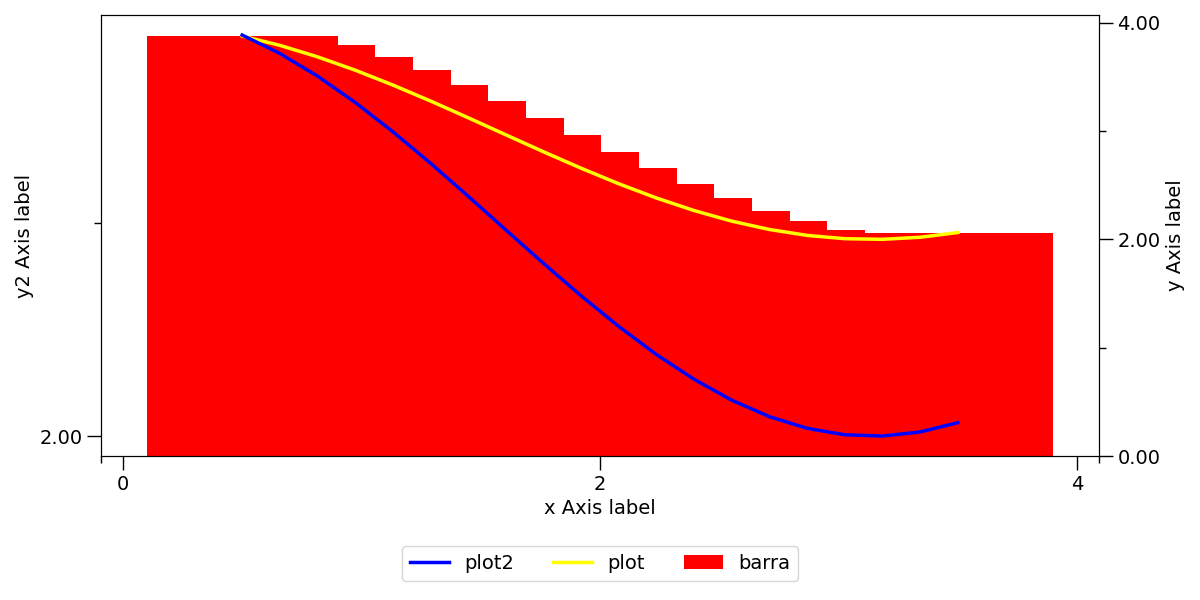
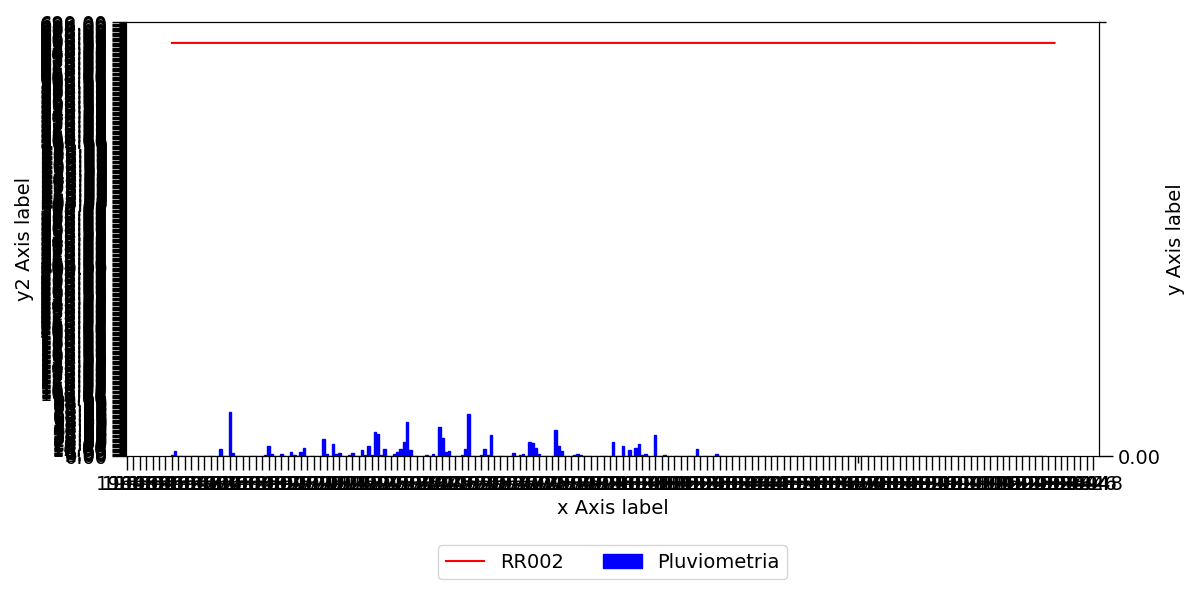
Refact kwargs plot e bar

diff --git a/modules/classes.py b/modules/classes.py
@@ -1,4 +1,3 @@
-
 import matplotlib.pyplot as plt
 import numpy as np
 from matplotlib.dates import DateFormatter,DayLocator,MonthLocator,YearLocator
@@ -6,44 +5,112 @@ from matplotlib.figure import Figure
 from matplotlib.font_manager import FontProperties
 from matplotlib.ticker import AutoMinorLocator, MultipleLocator
 from matplotlib.pyplot import rcParams
+if __name__=="__main__":
+    from functions import pullValues
+else:
+    from .functions import pullValues
 
 plt.rcParams.update({"legend.fontsize":14})
+X = np.linspace(0.5, 3.5, 20)
+Y = 3+np.cos(X)
 
 class Serie():
-    def __init__(self,X=None,Y=None,type="plot",label="",color=None,toSecundary=False,showLegend=True,barWidth=0.8,setup=dict()) -> None:
-        self.setup = dict(
-            par1 = "Exemplo de parâmetro padrão"
-        )
-        self.setup.update(setup)
-        
-        if X==None or Y==None:
-            self.X = np.linspace(0.5, 3.5, 20)
-            self.Y = 3+np.cos(self.X)
-        else:
-            self.X = X
-            self.Y = Y
+    
+    def __init__(self,X=None,Y=None,type="plot",label=None,color=None,toSecundary=False,showLegend=True,setup=dict()) -> None:
+        self.X = X
+        self.Y = Y
         self.type = type
         self.color = color
         self.label = label # Atributos para recuperação da informação passada no construtor
         if showLegend:
             self.label_legend = label
         else:
-            self.label_legend = ""
+            self.label_legend = None
         self.toSecundary = toSecundary
         self.showLegend = showLegend
-        if self.type=="bar":
-            if barWidth==0:
-                self.width = (max(self.X)-min(self.X))/(len(self.X)-1)
-            else:
-                self.width = barWidth
+        if self.type == "plot":
+            self.setup = dict(
+                label=self.label_legend,   # Nome na legenda
+                color=self.color,          # Cor das linhas e marcadores
+                linestyle='-',             # Estilo da linha ('-', '--', '-.', ':', 'None', etc.)
+                linewidth=1.5,             # Espessura da linha
+                marker=None,               # Estilo do marcador ('o', 's', '^', '*', etc.)
+                markersize=6.0,            # Tamanho do marcador
+                markerfacecolor=None,      # Cor de preenchimento do marcador
+                markeredgecolor=None,      # Cor da borda do marcador
+                markeredgewidth=1.0,       # Largura da borda do marcador
+                alpha=None,                # Transparência (0.0 a 1.0)
+                zorder=2,                  # Ordem na sobreposição de elementos
+                drawstyle='default',       # Estilo de conexão dos pontos ('default', 'steps-pre', etc.)
+                )
+        elif self.type == "bar":
+            self.setup = dict(
+                width=0.8,                 # Largura das barras
+                bottom=0,                  # Base das barras
+                align='center',            # Alinhamento das barras ('center' ou 'edge')
+                color=self.color,          # Cor das barras
+                edgecolor=self.color,      # Cor da borda das barras
+                linewidth=None,            # Espessura da borda
+                tick_label=None,           # Etiquetas do eixo x
+                hatch=None,                # Padrão de preenchimento (e.g., '/', '\\', 'x', etc.)
+                label=self.label_legend,   # Nome na legenda
+                alpha=None,                # Transparência (0.0 a 1.0)
+                zorder=2,                  # Ordem na sobreposição de elementos
+                log=False,                 # Escala logarítmica no eixo y
+                error_kw=None,             # Parâmetros de erro adicionais para as barras de erro
+                capsize=None,              # Tamanho das extremidades das barras de erro
+            )
+        self.setup.update(setup)
         pass
+
     def render(self,axes:plt.Axes):
         """Ainda não implementado"""
+        self.axes = axes
         if self.type == "plot":
-            self.art = axes.plot()
+            kwargs = pullValues(
+                self.setup,
+                [
+                "color",
+                "label",
+                "linewidth",
+                "alpha",
+                "zorder",
+                "log",
+                "xerr",
+                "yerr",
+                # Exclusive Plot's Params
+                "markersize",
+                "linestyle",
+                "marker",
+                "markerfacecolor",
+                "markeredgecolor",
+                "markeredgewidth",
+                "drawstyle",
+                ]
+                )
+            self.art = axes.plot(self.X, self.Y,**kwargs)
+
         elif self.type == "bar":
-            self.art = axes.bar()            
-        pass
+            kwargs = pullValues(
+                self.setup,
+                ["color",
+                "label",
+                "linewidth",
+                "alpha",
+                "zorder",
+                "log",
+                "xerr",
+                "yerr",
+                # Exclusive Bar's Params
+                "tick_label",
+                "hatch",
+                "edgecolor",
+                "capsize",
+                "bottom",
+                "width",
+                "error_kw"])
+            self.art = axes.bar(self.X, self.Y,**kwargs)
+        return self.art
         
 class Grafico():
     def __init__(self,
@@ -105,9 +172,7 @@ class Grafico():
         
 
         # Plotting all Serie's entities
-        self.objectsPlot = []
-        self.objectsBar = []
-        self.objectsScatter = []
+        self.objetcsArtist = []
 
         self.hasSecundary = False        
         
@@ -122,22 +187,9 @@ class Grafico():
                         self.ax2.yaxis.set_label_position("left")
                         self.ax2.yaxis.tick_left()
                     self.hasSecundary = True
-                # Plot Graph
-                if serie.type=="plot":
-                    self.objectsPlot.append(self.ax2.plot(serie.X, serie.Y, color=serie.color, lw=2.5, label=serie.label_legend, zorder=10))
-
-                # Bar Graph
-                elif serie.type=="bar":
-                    self.objectsBar.append(self.ax2.bar(serie.X, serie.Y, width=serie.width, color=serie.color, label=serie.label_legend))
+                self.objetcsArtist.append(serie.render(self.ax2))
             else:
-                # Plot Graph
-                if serie.type=="plot":
-                    self.objectsPlot.append(self.ax.plot(serie.X, serie.Y, color=serie.color, lw=2.5, label=serie.label_legend, zorder=10))
-
-                # Bar Graph
-                elif serie.type=="bar":
-                    self.objectsBar.append(self.ax.bar(serie.X, serie.Y, width=serie.width, color=serie.color, label=serie.label_legend))
-                    pass
+                self.objetcsArtist.append(serie.render(self.ax))
 
         # Axis X
         self.ax.set_xlabel("x Axis label", fontsize=14)
@@ -206,5 +258,5 @@ class Grafico3D(Grafico):
         super().__init__(series, width, height)
 
 if __name__=="__main__":
-    graph = Grafico(series=[Serie(label="barra",type="bar",color="red"),Serie(label="plot",color="yellow"),Serie(label="plot2",toSecundary=True,color="blue")])
+    graph = Grafico(series=[Serie(X,Y,label="barra",type="bar",color="red"),Serie(X,Y,label="plot",color="yellow"),Serie(X,Y,label="plot2",toSecundary=True,color="blue")])
     graph.save("1.png")

diff --git a/main.py b/main.py
@@ -1,0 +1,14 @@
+from modules import *
+import pandas as pd
+df = readSheets("Leituras-Monjolo.xlsx")["Planilha1"]
+df.columns
+data = df["Rótulos de Linha"]
+
+pluv = df["AGLPL001"]
+leiturasAutomatizadas = df["AGLBRMRR002_A"]
+leiturasManuais = df["AGLBRMRR002"]
+pluviometria = Serie(data,pluv,"bar","Pluviometria","blue",True)
+manuais = Serie(data,leiturasManuais,"plot","RR002","red",True)
+automaticas = Serie(data,leiturasAutomatizadas,"plot","RR002_A","red",True,False)
+series = [pluviometria,manuais,automaticas]
+Grafico(series=series).save("1.png")

diff --git a/modules/functions.py b/modules/functions.py
@@ -45,6 +45,14 @@ instrumentoToEixo = {
     "Poço": "",
     }
 
+def pullValues(dict:dict,keys:list):
+    dictToReturn = {}
+    for key,value in dict.items():
+        if key in keys:
+            dictToReturn.update({key:value})
+    return dictToReturn
+        
+
 def criarDiretorio (relativePath:str) -> None:
     if not os.path.exists(relativePath):
         os.mkdir(relativePath)
